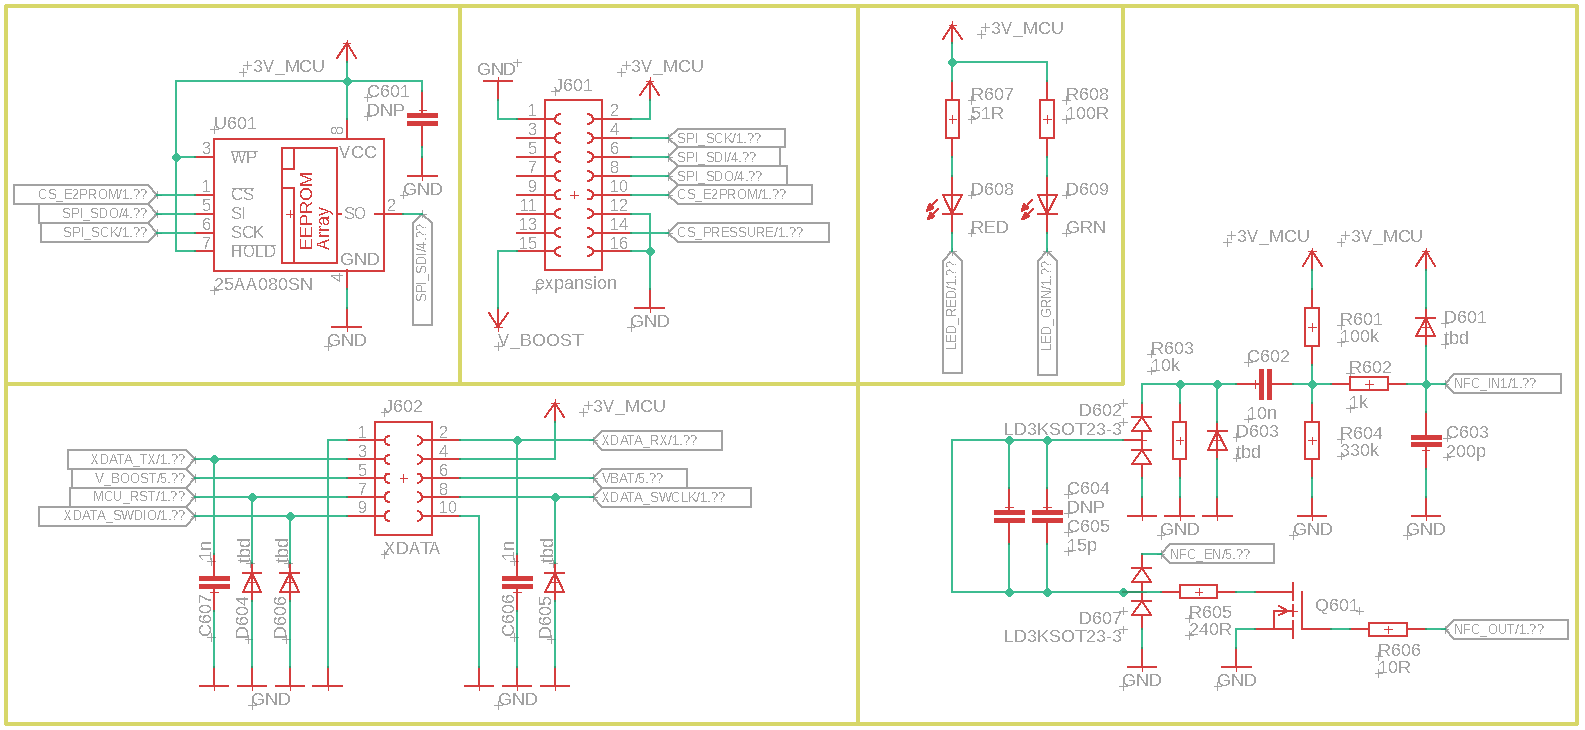
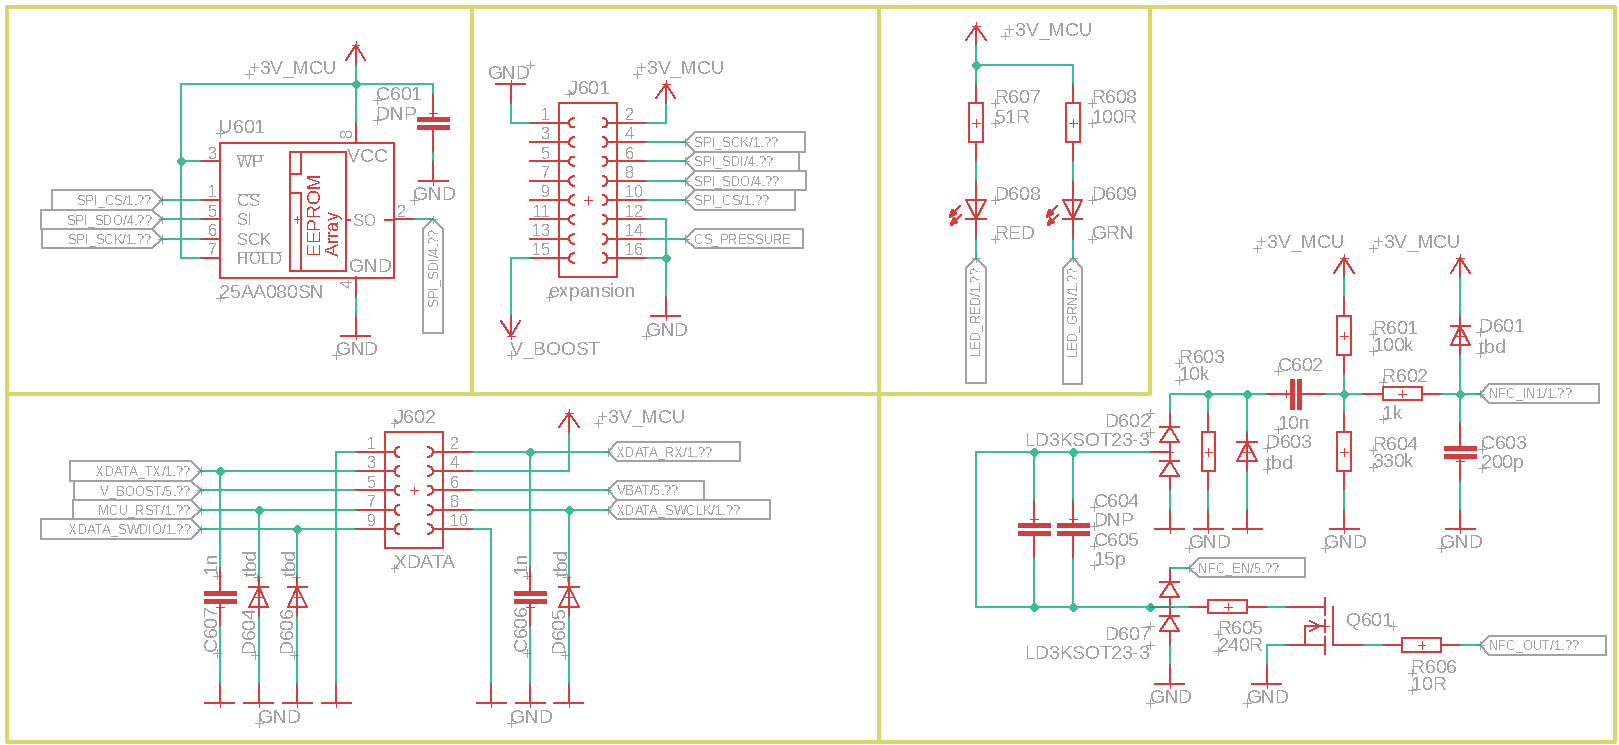
renamed CS Signals

diff --git a/README.md b/README.md
@@ -146,7 +146,7 @@ The mating ribbon connector is from the [Amphenol Minitek](https://www.amphenol-
 ```
 
 ## Internal expansion connector
-The internal expansion connector `J601` brings out the shared SPI bus and two GPIO/CS signals, one of which is shared with the EEPROM, as well as the 3.8 V boost voltage and 3 V MCU voltage. There are unused pins which can be used e.g. for programming the mezzanine board.
+The internal expansion connector `J601` brings out the shared SPI bus an CS signal and a clock of unknown frequency, one of which is shared with the EEPROM, as well as the 3.8 V boost voltage and 3 V MCU voltage. There are unused pins which can be used e.g. for programming the mezzanine board.
 
 The RPM411 barometric pressure module is the only mezzanine board in knowledge that uses this connection.
 
